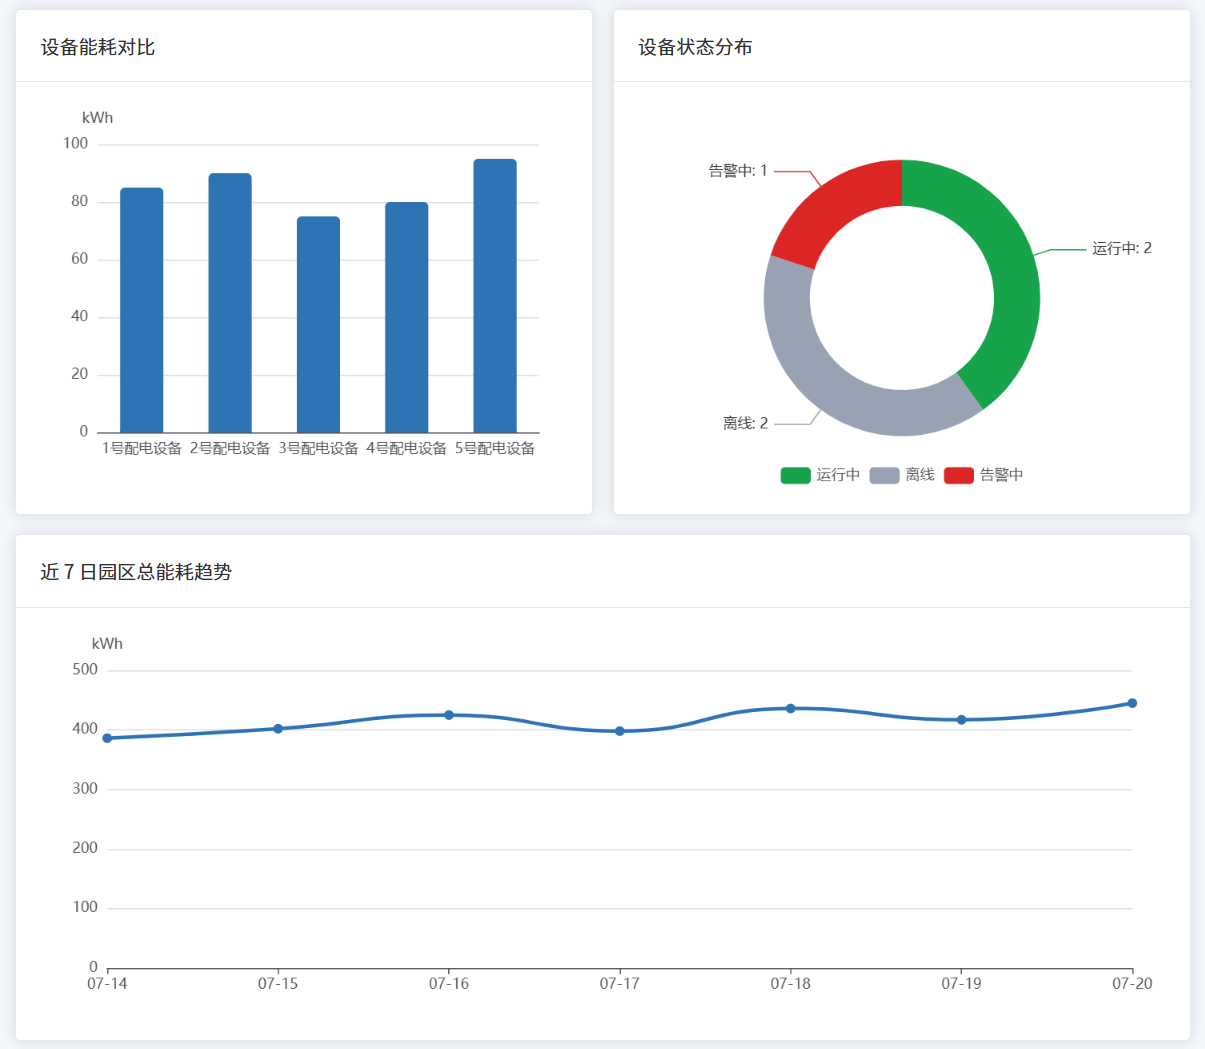
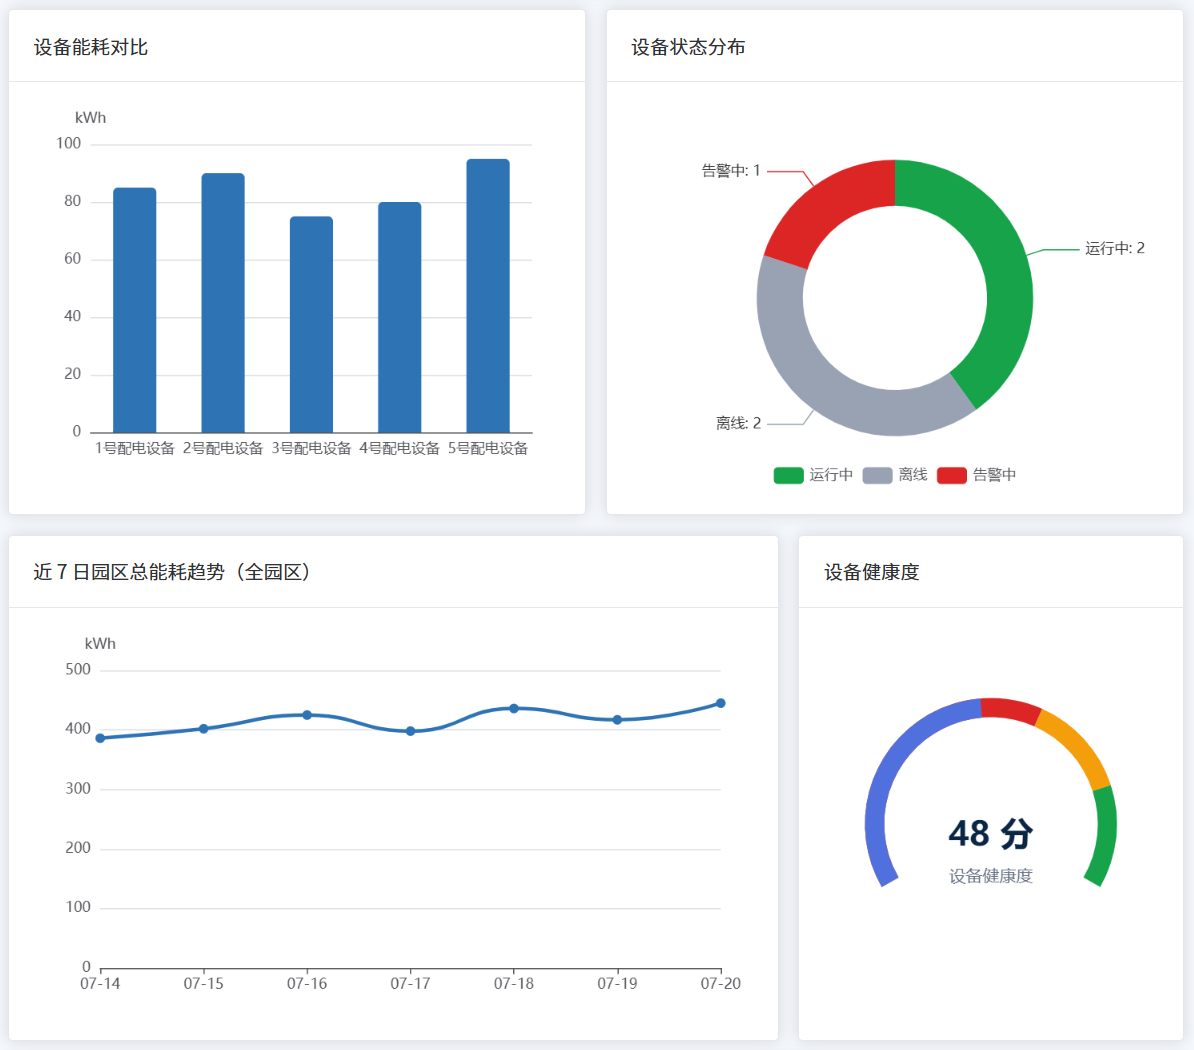
docs: polish README and test documentation

diff --git a/docs/test-cases.md b/docs/test-cases.md
@@ -1,34 +1,108 @@
-# 智慧园区运营数据可视化平台 - 功能测试用例
+# 智慧园区运营数据可视化平台：功能测试与缺陷记录
 
-| 编号 | 模块 | 测试内容 | 操作步骤 | 预期结果 | 实际结果 | 状态 |
-| --- | --- | --- | --- | --- | --- | --- |
-| TC-01 | 路由导航 | 运营总览跳转 | 点击“运营总览” | 正确进入运营总览页 | 正确进入运营总览页 | 通过 |
-| TC-02 | 设备管理 | 状态筛选 | 点击“离线” | 仅显示离线设备 | 仅显示离线设备 | 通过 |
-| TC-03 | 设备管理 | 关键字搜索 | 输入 `A-003` | 仅显示 3号配电设备 | 仅显示 3号配电设备 | 通过 |
-| TC-04 | 设备管理 | 组合筛选 | 选择“离线”，搜索 `A-004` | 仅显示 4号配电设备 | 仅显示 4号配电设备 | 通过 |
-| TC-05 | 设备管理 | 设备详情 | 点击任意设备“详情” | 右侧打开正确的设备详情 | 右侧打开正确的设备详情 | 通过 |
-| TC-06 | 运营总览 | 告警跳转 | 点击告警设备 | 跳转设备页并筛选“告警中” | 跳转设备页并筛选“告警中” | 通过 |
-| TC-07 | 工单管理 | 空表单校验 | 不填写内容，直接提交 | 出现必填提示，不创建工单 | 出现必填提示，不创建工单 | 通过 |
-| TC-08 | 工单管理 | 创建工单 | 填完必填项后提交 | 新工单显示在表格顶部 | 新工单显示在表格顶部 | 通过 |
-| TC-09 | 工单管理 | 编辑工单 | 点击编辑并修改标题 | 表格对应工单更新 | 表格对应工单更新 | 通过 |
-| TC-10 | 工单管理 | 删除工单 | 点击删除并确认 | 工单从表格消失 | 工单从表格消失 | 通过 |
-| TC-11 | 数据查询 | 状态查询 | 选择“告警中”后点击查询 | 只显示告警数据 | 只显示告警数据 | 通过 |
-| TC-12 | 数据查询 | 重置查询 | 设置筛选后点击重置 | 恢复全部数据和默认条件 | 恢复全部数据和默认条件 | 通过 |
-| TC-13 | 数据查询 | 分页 | 点击第 2 页 | 显示下一页数据 | 显示下一页数据 | 通过 |
-| TC-14 | 数据查询 | 加载失败与重试 | 模拟失败后点击重试 | 显示失败提示，重试后恢复数据 | 显示失败提示，重试后恢复数据 | 通过 |
-| TC-15 | 运营总览 | 区域筛选 | 选择“东区” | 指标卡显示 3 台设备，图表同步更新 | 指标卡显示 3 台设备，图表同步更新 | 通过 |
-| TC-16 | 运营总览 | 类型筛选 | 选择“配电设备” | 指标卡显示 2 台设备，柱状图仅显示 1号和3号设备 | 指标卡显示 2 台设备，柱状图仅显示 1号和3号设备 | 通过 |
-| TC-17 | 运营总览 | 组合筛选 | 选择“西区 + 配电设备” | 仅保留 3号配电设备，告警数量为 1 | 仅保留 3号配电设备，告警数量为 1 | 通过 |
-| TC-18 | 运营总览 | 图表联动 | 切换区域或设备类型 | 指标卡、柱状图、环形图、健康度仪表盘同步变化 | 指标卡、柱状图、环形图、健康度仪表盘同步变化 | 通过 |
-| TC-19 | 运营总览 | 页面切换 | 总览依次跳转工单、设备、查询页面 | 页面正常切换，无白屏、无报错 | 页面正常切换，无白屏、无报错 | 通过 |
-| TC-20 | 工单管理 | 本地持久化 | 新建工单后按 F5 刷新 | 新工单仍保留在表格中 | 新工单仍保留在表格中 | 通过 |
-| TC-21 | 工单管理 | 编辑持久化 | 编辑工单后按 F5 刷新 | 修改内容仍然保留 | 修改内容仍然保留 | 通过 |
+## 1. 测试概述
 
+本轮测试用于验证运营总览、设备管理、工单管理、数据查询及页面路由等核心流程，重点检查筛选联动、表单校验、数据持久化和异常状态处理。
 
-## 缺陷记录
+| 项目 | 内容 |
+| --- | --- |
+| 测试方式 | 手工功能测试 |
+| 测试环境 | Windows、本地 Vite 开发环境、Chromium 内核浏览器 |
+| 数据来源 | 项目本地 Mock 数据、浏览器 LocalStorage |
+| 用例总数 | 21 条 |
+| 执行结果 | 21 条通过，0 条失败 |
+| 缺陷结果 | 发现 3 个，已修复并完成回归 |
+| 最后更新 | 2026-07-26 |
 
-| 编号 | 关联用例 | 缺陷描述 | 严重程度 | 修复状态 | 原因 |
-| --- | --- | --- | --- | --- | --- |
-| BUG-01 | TC-08 | 工单编号异常显示![alt text](BUG-01.png) | 低 | 已修复 | nextOrderNumber是一个 ref 对象，缺少.value |
-| BUG-02 | TC-10 | 删除其中一个，所有新创建工单全部被删除 | 中 | 已修复 | 异常工单编号相同，order.id !== row.id会把所有编号相同的新工单一起过滤掉 |
-| BUG-03 | TC-19 | 从运营总览切换到其他页面时，页面无法正常跳转 | 中 | 已修复 | DeviceHealthGauge 组件将 `dispose()` 拼写成了 `dispoae()`，组件卸载时报错 |
+## 2. 测试前置条件
+
+1. 已执行 `npm install` 并通过 `npm run dev` 启动项目。
+2. 首页、运营总览、设备管理、工单管理和数据查询页面均可访问。
+3. 设备 Mock 数据保持项目默认状态。
+4. 执行工单初始数据相关用例前，确认 `smart-park-work-orders` 中的数据状态符合测试要求。
+5. TC-14 通过临时调用 `loadDeviceRecords(true)` 模拟接口失败，回归完成后恢复正常调用。
+
+## 3. 功能测试用例
+
+### 3.1 路由与运营总览
+
+| 编号 | 测试点 | 操作步骤 | 预期结果 | 结果 |
+| --- | --- | --- | --- | --- |
+| TC-01 | 运营总览导航 | 进入系统，点击“运营总览” | 正确进入运营总览页，页面内容正常显示 | 通过 |
+| TC-06 | 告警设备联动 | 在总览页点击一条告警设备 | 跳转至设备管理页，并自动筛选“告警中”设备 | 通过 |
+| TC-15 | 区域筛选 | 将园区区域选择为“东区” | 指标卡显示 3 台设备，相关图表同步更新 | 通过 |
+| TC-16 | 类型筛选 | 区域选择“全部”，设备类型选择“配电设备” | 指标卡显示 2 台设备，柱状图仅显示 1 号和 3 号设备 | 通过 |
+| TC-17 | 组合筛选 | 选择“西区”和“配电设备” | 仅统计 3 号配电设备，告警设备数为 1 | 通过 |
+| TC-18 | 图表联动 | 连续切换区域和设备类型 | 指标卡、柱状图、环形图及健康度仪表盘同步变化 | 通过 |
+| TC-19 | 页面连续切换 | 从总览页依次进入设备、工单和查询页面，再返回总览 | 页面均可正常切换，无白屏或运行时错误 | 通过 |
+
+### 3.2 设备管理
+
+| 编号 | 测试点 | 操作步骤 | 预期结果 | 结果 |
+| --- | --- | --- | --- | --- |
+| TC-02 | 状态筛选 | 点击状态筛选项“离线” | 列表只显示离线设备 | 通过 |
+| TC-03 | 关键字搜索 | 在搜索框输入设备编号 `A-003` | 列表只显示 3 号配电设备 | 通过 |
+| TC-04 | 组合查询 | 选择“离线”，并搜索 `A-004` | 列表只显示 4 号配电设备 | 通过 |
+| TC-05 | 设备详情 | 点击任意设备行的“详情” | 页面右侧打开抽屉，且设备信息与所选记录一致 | 通过 |
+
+### 3.3 工单管理
+
+| 编号 | 测试点 | 操作步骤 | 预期结果 | 结果 |
+| --- | --- | --- | --- | --- |
+| TC-07 | 空表单校验 | 打开“新建工单”，不填写内容直接提交 | 显示必填校验提示，且不创建工单 | 通过 |
+| TC-08 | 创建工单 | 填写标题、设备、优先级和计划日期后提交 | 创建成功，新工单显示在表格顶部，编号唯一 | 通过 |
+| TC-09 | 编辑工单 | 点击“编辑”，修改工单标题后提交 | 对应工单内容更新，其他工单不受影响 | 通过 |
+| TC-10 | 删除工单 | 点击一条工单的“删除”并确认 | 只删除当前工单，其他工单仍然保留 | 通过 |
+| TC-20 | 新建数据持久化 | 新建工单后刷新页面 | 新建工单仍保留在列表中 | 通过 |
+| TC-21 | 编辑数据持久化 | 编辑工单并提交后刷新页面 | 修改后的内容仍然保留 | 通过 |
+
+### 3.4 数据查询
+
+| 编号 | 测试点 | 操作步骤 | 预期结果 | 结果 |
+| --- | --- | --- | --- | --- |
+| TC-11 | 状态查询 | 选择“告警中”并点击“查询” | 查询结果只显示告警设备记录 | 通过 |
+| TC-12 | 查询重置 | 设置日期和状态后点击“重置” | 查询条件恢复默认值，并重新显示全部数据 | 通过 |
+| TC-13 | 结果分页 | 在存在多页数据时点击第 2 页 | 显示第 2 页数据，记录数量符合分页配置 | 通过 |
+| TC-14 | 加载失败与重试 | 模拟接口失败，出现错误页后恢复正常接口并点击“重新加载” | 先显示失败提示；重新加载后恢复数据表格 | 通过 |
+
+## 4. 缺陷汇总
+
+| 编号 | 关联用例 | 严重程度 | 状态 | 回归结果 |
+| --- | --- | --- | --- | --- |
+| BUG-01 | TC-08 | 低 | 已修复 | 通过 |
+| BUG-02 | TC-10 | 中 | 已修复 | 通过 |
+| BUG-03 | TC-19 | 中 | 已修复 | 通过 |
+
+## 5. 缺陷详情
+
+### BUG-01：新建工单编号显示异常
+
+- **关联用例：** TC-08
+- **缺陷现象：** 新建工单后，工单编号未按 `WO-004` 的格式正常递增。
+- **根本原因：** `nextOrderNumber` 是 `ref` 对象，生成编号时使用了对象本身，遗漏 `.value`。
+- **修复方式：** 将编号生成逻辑改为 `String(nextOrderNumber.value).padStart(3, '0')`。
+- **回归结果：** 连续新建多条工单后，编号依次递增且互不重复。
+
+![BUG-01 工单编号异常](BUG-01.png)
+
+### BUG-02：删除一条工单时多条新工单同时消失
+
+- **关联用例：** TC-10
+- **缺陷现象：** 删除一条新建工单后，具有相同异常编号的其他工单也被删除。
+- **根本原因：** BUG-01 导致多条工单拥有相同 `id`；按 `id` 过滤删除时匹配到了全部重复记录。
+- **修复方式：** 修复唯一编号生成逻辑，确保每条工单的 `id` 唯一。
+- **回归结果：** 连续创建多条工单后，删除其中任意一条只影响当前记录。
+
+### BUG-03：离开运营总览后页面无法继续切换
+
+- **关联用例：** TC-19
+- **缺陷现象：** 从运营总览切换至工单、设备或查询页面时，页面停止响应或出现白屏。
+- **根本原因：** `DeviceHealthGauge` 组件卸载时将 ECharts 的 `dispose()` 错写为 `dispoae()`，触发运行时异常。
+- **修复方式：** 更正方法名，并在 `onBeforeUnmount` 中移除 `resize` 监听后销毁图表实例。
+- **回归结果：** 各业务页面可连续往返切换，控制台不再出现该异常。
+
+## 6. 测试结论
+
+本轮 21 条功能用例全部通过，3 个已发现缺陷均完成修复和回归。运营筛选联动、设备查询、工单增删改与持久化、数据查询及异常重试等主要流程运行正常。
+
+当前测试基于本地 Mock 数据和浏览器 LocalStorage，尚未覆盖真实接口、多人并发、权限控制、跨浏览器兼容性及自动化回归测试。这些内容可在接入后端后继续补充。

diff --git a/README.md b/README.md
@@ -1,63 +1,121 @@
 # 智慧园区运营数据可视化平台
 
-基于 Vue 3 的前端可视化学习项目，模拟智慧园区中的设备监控、工单管理和运营数据查询场景。
+基于 Vue 3 的智慧园区运营后台项目，围绕设备监控、能耗分析、工单处理和数据查询等场景，完成从数据展示、条件筛选到业务操作的完整前端流程。
 
-## 项目功能
+项目使用本地 Mock 数据模拟接口请求，并通过加载、失败和重试状态还原常见的后台系统交互。工单数据保存在浏览器 `localStorage` 中，刷新页面后仍可恢复。
 
-- 运营总览：展示设备状态、累计能耗、告警信息和设备健康度
-- 筛选联动：支持区域、设备类型及组合筛选，指标卡与图表同步更新
-- 数据可视化：设备能耗柱状图、状态环形图、近 7 日趋势图、健康度仪表盘
-- 设备管理：状态筛选、关键字搜索、组合查询和设备详情抽屉
-- 工单管理：新建、编辑、删除、表单校验、唯一编号及 localStorage 持久化
-- 数据查询：日期与状态筛选、分页、异步加载、失败提示和重新加载
-- 路由联动：从告警列表跳转设备页，并自动筛选告警设备
+## 核心功能
+
+### 运营总览
+
+- 展示设备总数、运行状态、告警数量和园区累计能耗
+- 支持按园区区域、设备类型及其组合条件筛选
+- 指标卡、能耗柱状图、状态环形图和健康度仪表盘同步更新
+- 展示近 7 日园区能耗趋势
+- 点击告警设备后跳转至设备管理页，并自动筛选告警设备
+
+### 设备管理
+
+- 按运行状态筛选设备
+- 按设备名称或编号进行关键字搜索
+- 支持状态与关键字组合查询
+- 通过抽屉查看设备详细信息
+
+### 工单管理
+
+- 新建、编辑和删除工单
+- 使用 Element Plus 表单规则校验必填字段
+- 自动生成唯一工单编号
+- 使用 `localStorage` 保存工单，支持刷新后恢复
+
+### 数据查询
+
+- 按日期范围和设备状态查询记录
+- 支持查询条件重置和结果分页
+- 模拟异步接口的加载、失败和重新加载状态
+- 筛选条件变化后自动返回第一页
 
 ## 技术栈
 
-- Vue 3
-- Vue Router
-- Element Plus
-- Apache ECharts
-- Vite
-- Git
+| 类别 | 技术 |
+| --- | --- |
+| 核心框架 | Vue 3、Composition API |
+| 路由管理 | Vue Router |
+| UI 组件 | Element Plus |
+| 数据可视化 | Apache ECharts |
+| 构建工具 | Vite |
+| 数据存储 | LocalStorage、本地 Mock 数据 |
+| 版本管理 | Git、GitHub |
 
-## 项目亮点
+## 实现亮点
 
-- 使用 `computed` 实现多条件筛选和统计数据计算
-- 使用 `watch` 驱动 ECharts 图表更新及工单数据持久化
-- 通过 `props` 将筛选结果传递给图表组件，实现多组件联动
-- 模拟异步接口的加载、失败与重试状态
-- 编写并执行 21 条功能测试用例，记录和修复真实缺陷
+- 使用 `ref`、`reactive` 和 `computed` 管理页面状态、查询参数及派生统计数据
+- 通过 `props`、`emit` 和 `watch` 完成父子组件通信及图表数据联动
+- 将筛选结果作为统一数据源，同时驱动指标卡、告警列表和多个 ECharts 组件
+- 在图表组件中处理初始化、数据更新、窗口缩放和组件卸载，避免重复创建图表实例
+- 分离表单输入条件与已提交查询条件，避免输入过程中直接改变查询结果
+- 使用表单校验、唯一编号生成和本地持久化完成工单管理闭环
+- 编写并执行 21 条功能测试用例，定位并修复 3 个真实缺陷
 
 ## 项目结构
 
 ```text
-src/
-  api/          模拟异步接口
-  components/   可复用组件和图表组件
-  data/         模拟设备与趋势数据
-  router/       路由配置
-  views/        页面组件
+smart-park-dashboard/
+├─ docs/
+│  ├─ images/          项目截图
+│  └─ test-cases.md    功能测试与缺陷记录
+├─ src/
+│  ├─ api/             模拟异步接口
+│  ├─ components/      通用组件与图表组件
+│  ├─ data/            设备及趋势模拟数据
+│  ├─ router/          路由配置
+│  ├─ views/           页面级组件
+│  ├─ App.vue          根组件
+│  └─ main.js          应用入口
+├─ package.json
+└─ vite.config.js
 ```
 
 ## 本地运行
 
+确保本机已经安装 Node.js 和 npm，然后执行：
+
 ```powershell
+git clone https://github.com/3273352747/smart-park-dashboard.git
+cd smart-park-dashboard
 npm install
 npm run dev
-npm run build
 ```
 
-## 测试记录
+生产构建与本地预览：
 
-功能测试用例与缺陷记录见：[测试用例文档](docs/test-cases.md)。
+```powershell
+npm run build
+npm run preview
+```
+
+## 测试与质量
+
+项目采用手工功能测试验证主要业务流程。
+
+| 测试指标 | 结果 |
+| --- | ---: |
+| 功能测试用例 | 21 条 |
+| 通过用例 | 21 条 |
+| 发现缺陷 | 3 个 |
+| 已修复并回归 | 3 个 |
+
+详细步骤、预期结果和缺陷分析见 [功能测试与缺陷记录](docs/test-cases.md)。
 
 ## 项目截图
 
 ### 运营总览
 
-![运营总览](docs/images/overview-top.png)
-![运营总览](docs/images/overview-charts.png)
+![运营总览指标与筛选](docs/images/overview-top.png)
+
+![运营总览图表](docs/images/overview-charts.png)
+
+![运营总览组合筛选](docs/images/overview-filtered.png)
 
 ### 设备管理
 
@@ -65,9 +123,23 @@ npm run build
 
 ### 工单管理
 
-![工单管理](docs/images/work-order.png)
-![工单管理](docs/images/new-work-order.png)
+![工单列表](docs/images/work-order.png)
+
+![新建工单](docs/images/new-work-order.png)
 
 ### 数据查询
 
 ![数据查询](docs/images/data-query.png)
+
+## 数据说明
+
+- 当前设备和趋势数据来自项目内的本地 Mock 数据，并非真实生产接口
+- 工单数据存储在当前浏览器的 `localStorage` 中；清理浏览器站点数据后会恢复默认工单
+- 项目主要用于展示 Vue 前端开发、数据可视化和功能测试能力
+
+## 后续计划
+
+- 接入真实后端 API，并统一封装请求和异常处理
+- 增加登录鉴权、角色权限与操作日志
+- 使用 Vitest 或 Playwright 补充自动化测试
+- 按需引入 Element Plus 和 ECharts，优化生产构建体积
